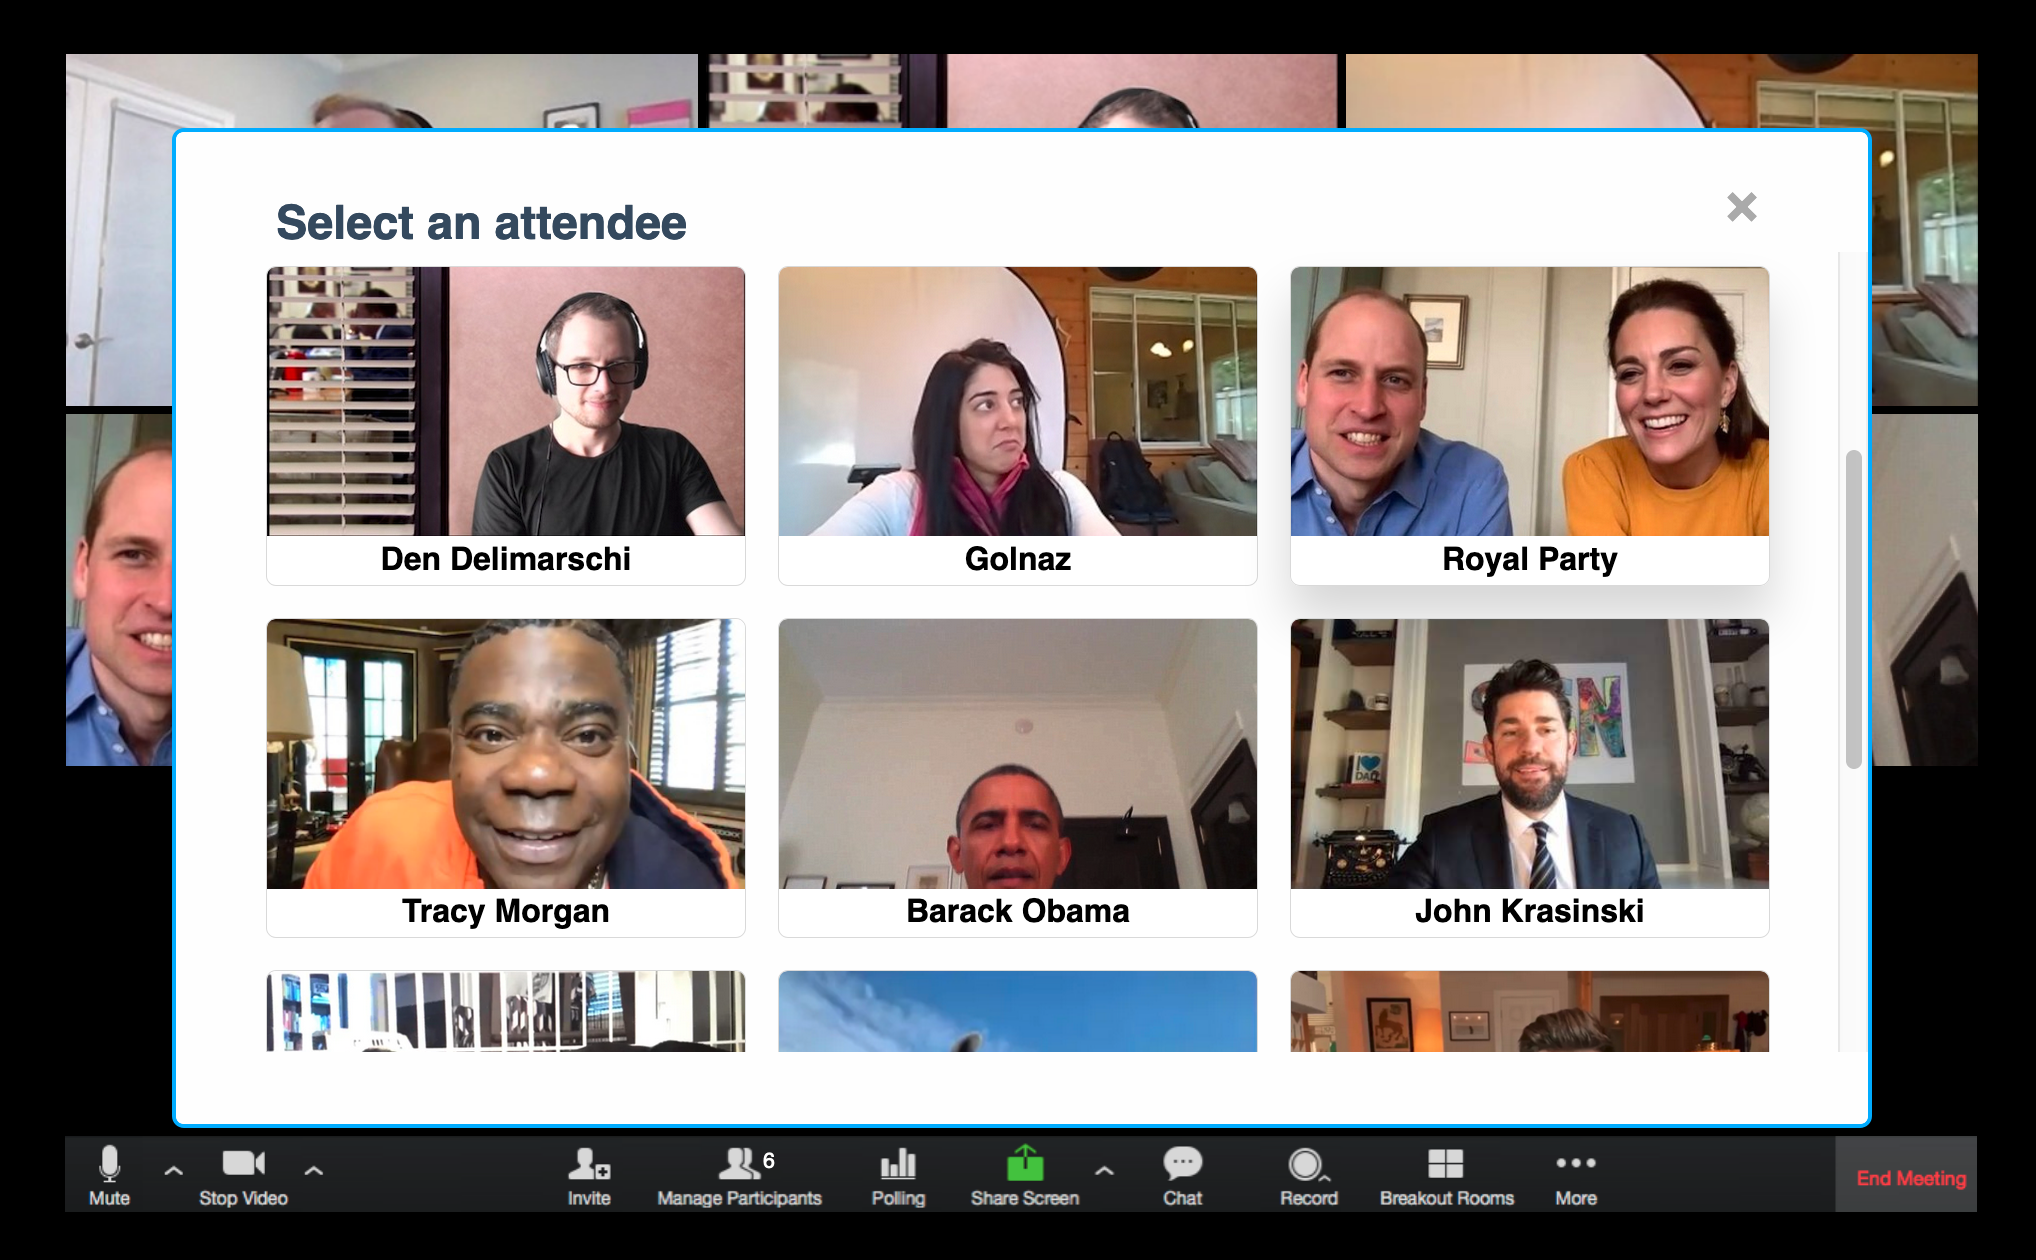
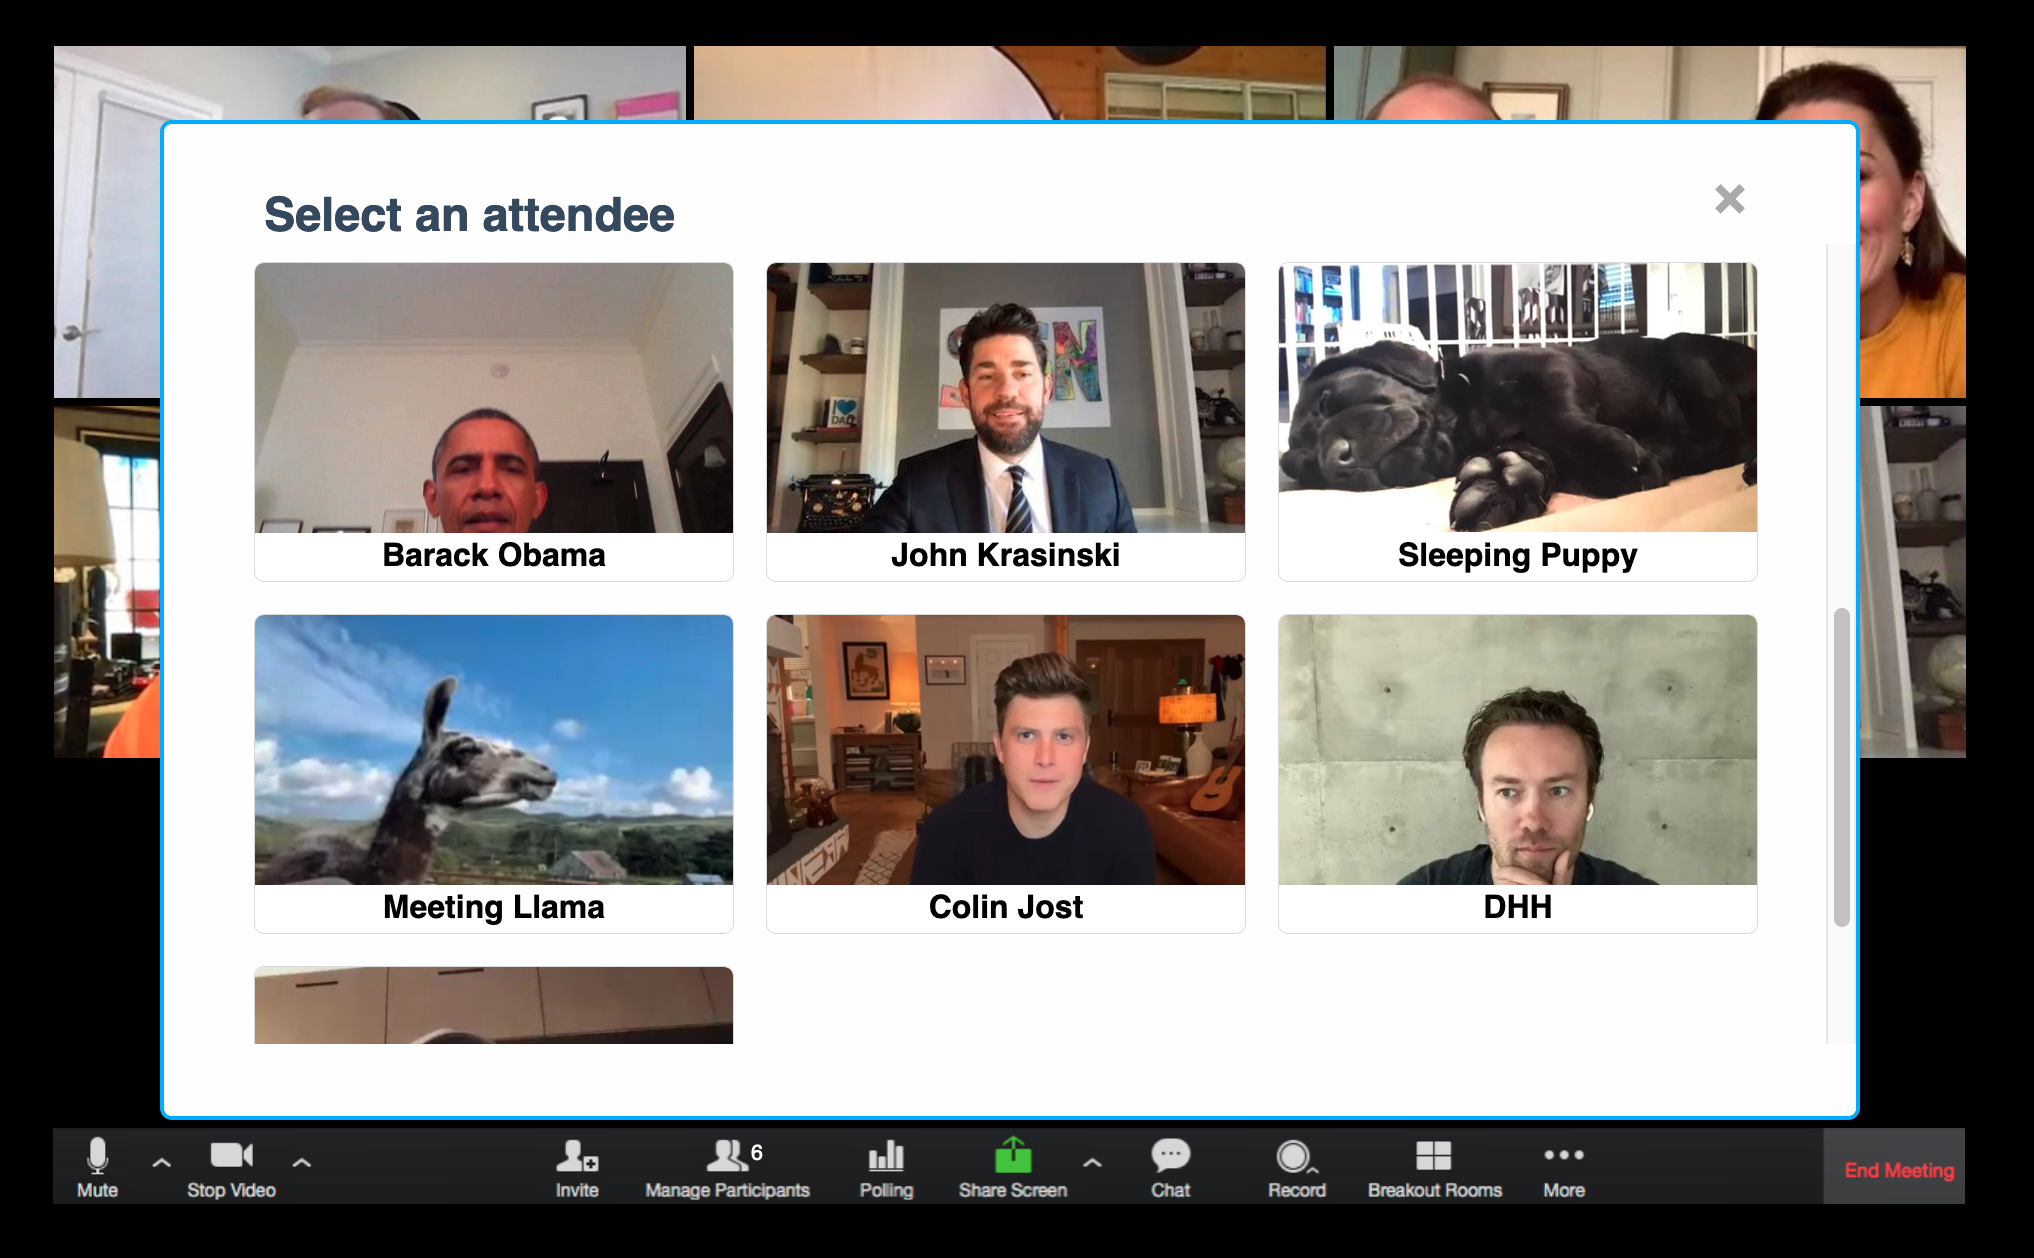
Update CSS

diff --git a/src/index.html b/src/index.html
@@ -112,8 +112,9 @@
           Custom image and webcam support
         </h2>
         <p>
-          You can upload custom images (no data is kept on the server) or use
-          capture a realtime camera view of your webcam.
+          Don't have any celebrity friends? Don't worry - we don't either. But you can pretend that you are in a meeting with whoever you want. And if you don't find
+          the attendee you want in our (limited) library, you can always upload a custom image or use your own webcam to include the one true celebrity
+          in the meeting.
         </p>
       </div>
       <!-- Row 3 -->
@@ -123,20 +124,20 @@
     </div>
     <div class="ribbon l-box-lrg pure-g">
       <div class="l-box-lrg is-center pure-u-1 pure-u-md-1-2 pure-u-lg-2-5">
-        <img width="500" alt="Change this" class="pure-img-responsive" src="static/images/attendee-llama.png" />
+        <img width="500" alt="Change this" class="pure-img-responsive" src="static/images/image-download.png" />
       </div>
       <div class="pure-u-1 pure-u-md-1-2 pure-u-lg-3-5">
         <h2 class="content-head content-head-ribbon">Have Fun</h2>
         <p>
           Unleash your creativity adding your favorite celebrities and
-          characters or by creating themed meetings like the "Brady Bunch",
-          "The Karens", or the "Worst.Meeting.Ever".
+          characters or by creating themed meetings like "The Brady Bunch",
+          "SNL", or the "Worst. Meeting. Ever." We'll leave it up to you to create your own combinations.
         </p>
       </div>
     </div>
 
     <div class="content is-center">
-      <a href="create/index.html" class="pure-button pure-button-primary">
+      <a href="create/index.html" class="pure-button pure-button-primary-bottom">
         Create a Meeting Now!
       </a>
       <p></p>

diff --git a/src/static/css/landing.css b/src/static/css/landing.css
@@ -72,6 +72,13 @@ a.pure-button-primary {
   font-size: 120%;
 }
 
+a.pure-button-primary-bottom {
+  background: #1f8dd6;
+  color: #fff;
+  border-radius: 5px;
+  font-size: 120%;
+}
+
 /*
  * -- SPLASH STYLES --
  * This is the blue top section that appears on the page.
